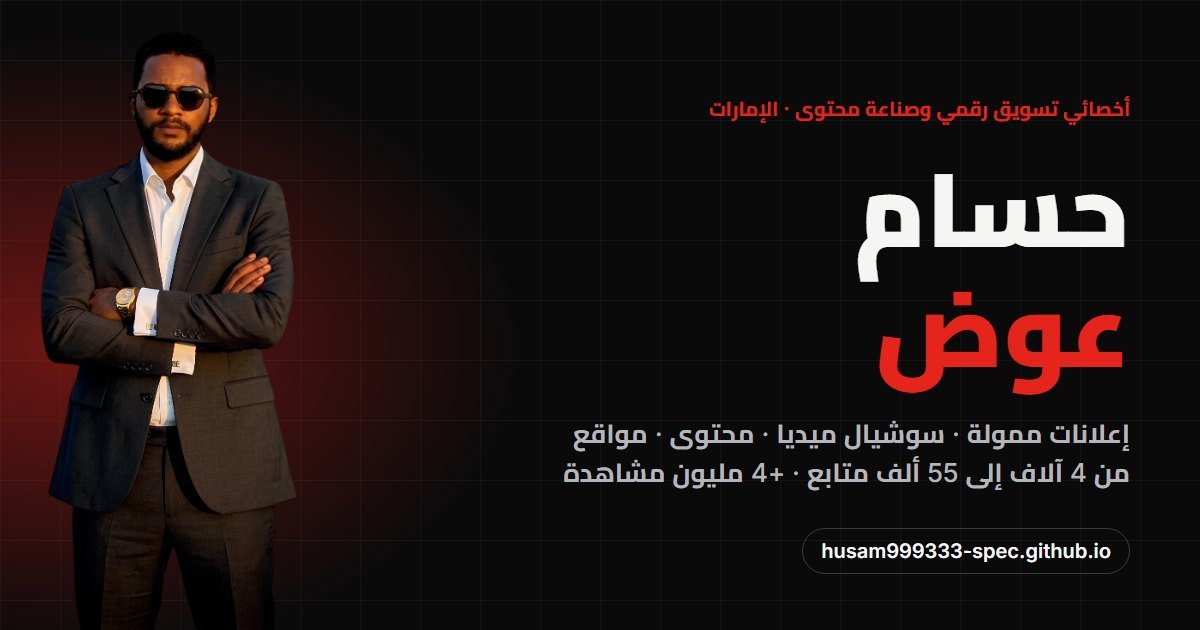
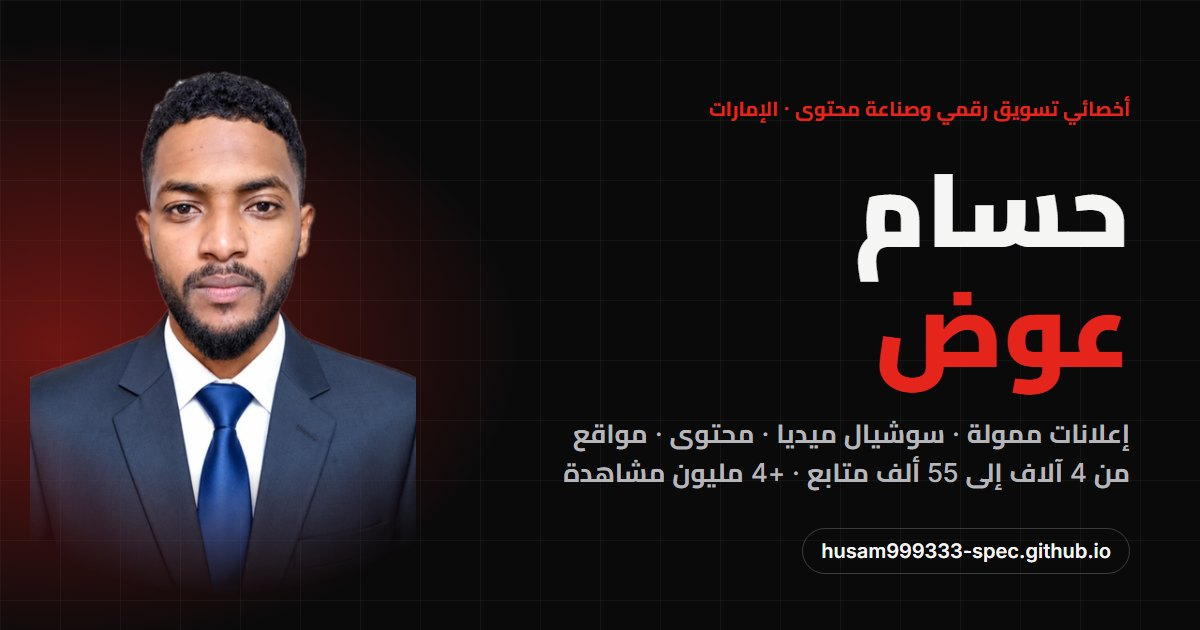
New front-facing hero photo, freelance dates 2020-2026, refreshed share images

Changed region(s): [[0.0, 0.0603, 0.37, 0.9651]]

diff --git a/ar/index.html b/ar/index.html
@@ -32,9 +32,9 @@
 <link rel="preconnect" href="https://fonts.googleapis.com">
 <link rel="preconnect" href="https://fonts.gstatic.com" crossorigin>
 <link rel="stylesheet" href="https://fonts.googleapis.com/css2?family=Cairo:wght@400;500;600;700;800;900&family=Inter:wght@400;500;600&display=swap">
-<link rel="preload" as="image" href="/assets/img/husam-hero.webp" fetchpriority="high">
-<link rel="stylesheet" href="/assets/css/style.css?v=7a1acf8e">
-<script type="application/ld+json">[{"@context":"https://schema.org","@type":"Person","@id":"https://husam999333-spec.github.io/#person","name":"Husam Awad","alternateName":["Husam Abd Alfattah","Husam Abdelfatah Awad Alhassan","حسام عوض","حسام عبدالفتاح عوض"],"jobTitle":"أخصائي تسويق رقمي وصناعة محتوى","description":"حسام عوض، أخصائي تسويق رقمي وصناعة محتوى في الإمارات بخبرة تزيد عن 6 سنوات في الإعلانات الممولة وإدارة السوشيال ميديا والتصميم ومواقع ووردبريس. نمّى جمهور فيستيفال لاند عجمان من 4 آلاف إلى 55 ألف متابع.","url":"https://husam999333-spec.github.io/ar/","image":"https://husam999333-spec.github.io/assets/img/husam-profile.webp","email":"mailto:husam999333@gmail.com","telephone":"+966530189972","address":{"@type":"PostalAddress","addressLocality":"Ajman","addressCountry":"AE"},"worksFor":{"@type":"Organization","name":"Festival Land Ajman","url":"https://festivalland.ae/"},"alumniOf":{"@type":"CollegeOrUniversity","name":"Sudan Academy for Banking & Financial Sciences"},"award":"Employee of the Year 2025 — Festival Land Ajman","knowsAbout":["التسويق الرقمي","الإعلانات الممولة","Meta Ads","Google Ads","إدارة السوشيال ميديا","صناعة المحتوى","التصميم الجرافيكي","المونتاج","WordPress","SEO"],"knowsLanguage":["ar","en"],"sameAs":["https://www.linkedin.com/in/husam-abd-alfattah-a73365259/"]},{"@context":"https://schema.org","@type":"ProfilePage","url":"https://husam999333-spec.github.io/ar/","name":"حسام عوض | أخصائي تسويق رقمي وصناعة محتوى في الإمارات","inLanguage":"ar","dateModified":"2026-11-11","mainEntity":{"@id":"https://husam999333-spec.github.io/#person"}}]</script>
+<link rel="preload" as="image" href="/assets/img/husam-front.webp" fetchpriority="high">
+<link rel="stylesheet" href="/assets/css/style.css?v=7435adbf">
+<script type="application/ld+json">[{"@context":"https://schema.org","@type":"Person","@id":"https://husam999333-spec.github.io/#person","name":"Husam Awad","alternateName":["Husam Abd Alfattah","Husam Abdelfatah Awad Alhassan","حسام عوض","حسام عبدالفتاح عوض"],"jobTitle":"أخصائي تسويق رقمي وصناعة محتوى","description":"حسام عوض، أخصائي تسويق رقمي وصناعة محتوى في الإمارات بخبرة تزيد عن 6 سنوات في الإعلانات الممولة وإدارة السوشيال ميديا والتصميم ومواقع ووردبريس. نمّى جمهور فيستيفال لاند عجمان من 4 آلاف إلى 55 ألف متابع.","url":"https://husam999333-spec.github.io/ar/","image":"https://husam999333-spec.github.io/assets/img/husam-front.webp","email":"mailto:husam999333@gmail.com","telephone":"+966530189972","address":{"@type":"PostalAddress","addressLocality":"Ajman","addressCountry":"AE"},"worksFor":{"@type":"Organization","name":"Festival Land Ajman","url":"https://festivalland.ae/"},"alumniOf":{"@type":"CollegeOrUniversity","name":"Sudan Academy for Banking & Financial Sciences"},"award":"Employee of the Year 2025 — Festival Land Ajman","knowsAbout":["التسويق الرقمي","الإعلانات الممولة","Meta Ads","Google Ads","إدارة السوشيال ميديا","صناعة المحتوى","التصميم الجرافيكي","المونتاج","WordPress","SEO"],"knowsLanguage":["ar","en"],"sameAs":["https://www.linkedin.com/in/husam-abd-alfattah-a73365259/"]},{"@context":"https://schema.org","@type":"ProfilePage","url":"https://husam999333-spec.github.io/ar/","name":"حسام عوض | أخصائي تسويق رقمي وصناعة محتوى في الإمارات","inLanguage":"ar","dateModified":"2026-11-11","mainEntity":{"@id":"https://husam999333-spec.github.io/#person"}}]</script>
 </head>
 <body>
 <a class="skip" href="#main">تخطَّ إلى المحتوى</a>
@@ -68,7 +68,7 @@
     </div>
     <div class="hero-pic">
       <div class="halo" aria-hidden="true"></div>
-      <img src="/assets/img/husam-hero.webp" alt="حسام عوض، أخصائي تسويق رقمي، ببدلة داكنة وذراعاه متشابكتان" width="599" height="1400" fetchpriority="high">
+      <img src="/assets/img/husam-front.webp" alt="حسام عوض، أخصائي تسويق رقمي، ببدلة كحلية وربطة عنق زرقاء" width="824" height="1194" fetchpriority="high">
       <div class="award-chip"><svg class="i" viewBox="0 0 24 24" fill="none" stroke="currentColor" stroke-width="1.7" stroke-linecap="round" stroke-linejoin="round" aria-hidden="true"><circle cx="12" cy="9" r="6"/><path d="m8.5 14-1.5 7 5-3 5 3-1.5-7"/></svg><span><b>موظف العام</b><small>Festival Land Ajman · 2025</small></span></div>
     </div>
   </div>
@@ -224,10 +224,10 @@
           <ul><li>المسؤول عن جميع الإعلانات الممولة: تخطيط وإطلاق وتحسين أكثر من 100 حملة على منصتَي <bdi>Meta Ads</bdi> و<bdi>Google Ads</bdi> بميزانيات موسمية تجاوزت 200 ألف درهم.</li><li>إدارة الموقع الرسمي <bdi>festivalland.ae</bdi>: المحتوى والتحديثات والأداء وتحسين الظهور في محركات البحث.</li><li>تصميم المواد التسويقية وإنتاج الفيديوهات الترويجية للحملات ومنصات التواصل.</li><li>إدارة التعاون مع جميع المؤثرين والبلوجرز الظاهرين في صفحة إنستغرام الخاصة بالعلامة.</li><li>وضع استراتيجيات التسويق الرقمي ومتابعة الأداء عبر المنصات لزيادة الوعي والتفاعل.</li></ul>
         </div>
       </article><article class="job reveal">
-        <div class="job-when">عمل حر</div>
+        <div class="job-when">2020 — 2026</div>
         <div class="job-main">
           <h3>أخصائي تسويق رقمي ومحتوى إبداعي</h3>
-          <p class="job-org">عملاء مستقلون <span>· الإمارات</span></p>
+          <p class="job-org">عمل حر · عملاء مستقلون <span>· الإمارات</span></p>
           <div class="job-tags">
           
           
@@ -263,7 +263,7 @@
       <p class="lead reveal">شكرًا لاطلاعك على أعمالي. أنا منفتح دائمًا على الفرص الجديدة والتعاون والتحديات الإبداعية.</p>
       <ul class="clist"><li class="reveal"><a href="mailto:husam999333@gmail.com"><span class="c-ic"><svg class="i" viewBox="0 0 24 24" fill="none" stroke="currentColor" stroke-width="1.7" stroke-linecap="round" stroke-linejoin="round" aria-hidden="true"><rect x="3" y="5" width="18" height="14" rx="2"/><path d="m3 7 9 6 9-6"/></svg></span><span><small>البريد الإلكتروني</small><b dir="ltr">husam999333@gmail.com</b></span><svg class="i c-go" viewBox="0 0 24 24" fill="none" stroke="currentColor" stroke-width="1.7" stroke-linecap="round" stroke-linejoin="round" aria-hidden="true"><path d="M7 17 17 7M8 7h9v9"/></svg></a></li><li class="reveal"><a href="tel:+966530189972"><span class="c-ic"><svg class="i" viewBox="0 0 24 24" fill="none" stroke="currentColor" stroke-width="1.7" stroke-linecap="round" stroke-linejoin="round" aria-hidden="true"><path d="M5 4h4l2 5-2.5 1.5a11 11 0 0 0 5 5L15 13l5 2v4a2 2 0 0 1-2 2A16 16 0 0 1 3 6a2 2 0 0 1 2-2Z"/></svg></span><span><small>الهاتف (للمكالمات)</small><b dir="ltr">+966 53 018 9972</b></span><svg class="i c-go" viewBox="0 0 24 24" fill="none" stroke="currentColor" stroke-width="1.7" stroke-linecap="round" stroke-linejoin="round" aria-hidden="true"><path d="M7 17 17 7M8 7h9v9"/></svg></a></li><li class="reveal"><a href="https://wa.me/971558726441" target="_blank" rel="noopener"><span class="c-ic"><svg class="i" viewBox="0 0 24 24" fill="none" stroke="currentColor" stroke-width="1.7" stroke-linecap="round" stroke-linejoin="round" aria-hidden="true"><path d="M3.5 20.5 5 16a8.5 8.5 0 1 1 3 3l-4.5 1.5Z"/><path d="M9 9.5c0 3 2.5 5.5 5.5 5.5l1-1.5-2-1-1 1a4 4 0 0 1-2-2l1-1-1-2L9 9.5Z"/></svg></span><span><small>واتساب</small><b dir="ltr">+971 55 872 6441</b></span><svg class="i c-go" viewBox="0 0 24 24" fill="none" stroke="currentColor" stroke-width="1.7" stroke-linecap="round" stroke-linejoin="round" aria-hidden="true"><path d="M7 17 17 7M8 7h9v9"/></svg></a></li><li class="reveal"><a href="https://www.linkedin.com/in/husam-abd-alfattah-a73365259/" target="_blank" rel="noopener"><span class="c-ic"><svg class="i" viewBox="0 0 24 24" fill="none" stroke="currentColor" stroke-width="1.7" stroke-linecap="round" stroke-linejoin="round" aria-hidden="true"><rect x="3" y="3" width="18" height="18" rx="3"/><path d="M8 10v7M8 7v.01M12 17v-4a2 2 0 0 1 4 0v4M12 10v7"/></svg></span><span><small>لينكدإن</small><b dir="ltr">Husam Abd Alfattah</b></span><svg class="i c-go" viewBox="0 0 24 24" fill="none" stroke="currentColor" stroke-width="1.7" stroke-linecap="round" stroke-linejoin="round" aria-hidden="true"><path d="M7 17 17 7M8 7h9v9"/></svg></a></li></ul>
     </div>
-    <div class="contact-pic reveal"><img src="/assets/img/husam-profile.webp" alt="صورة شخصية لحسام عوض" width="795" height="900" loading="lazy"></div>
+    <div class="contact-pic reveal"><img src="/assets/img/husam-hero.webp" alt="حسام عوض ببدلة داكنة" width="599" height="1400" loading="lazy"></div>
   </div>
 </section>
 </main>

diff --git a/index.html b/index.html
@@ -32,9 +32,9 @@
 <link rel="preconnect" href="https://fonts.googleapis.com">
 <link rel="preconnect" href="https://fonts.gstatic.com" crossorigin>
 <link rel="stylesheet" href="https://fonts.googleapis.com/css2?family=Anton&family=Inter:wght@400;500;600;700&display=swap">
-<link rel="preload" as="image" href="/assets/img/husam-hero.webp" fetchpriority="high">
-<link rel="stylesheet" href="/assets/css/style.css?v=7a1acf8e">
-<script type="application/ld+json">[{"@context":"https://schema.org","@type":"Person","@id":"https://husam999333-spec.github.io/#person","name":"Husam Awad","alternateName":["Husam Abd Alfattah","Husam Abdelfatah Awad Alhassan","حسام عوض","حسام عبدالفتاح عوض"],"jobTitle":"Digital Marketing & Creative Specialist","description":"Husam Awad is a Digital Marketing & Creative Specialist in the UAE with 6+ years in paid advertising, social media, content creation and WordPress websites. Grew Festival Land Ajman from 4K to 55K followers.","url":"https://husam999333-spec.github.io/","image":"https://husam999333-spec.github.io/assets/img/husam-profile.webp","email":"mailto:husam999333@gmail.com","telephone":"+966530189972","address":{"@type":"PostalAddress","addressLocality":"Ajman","addressCountry":"AE"},"worksFor":{"@type":"Organization","name":"Festival Land Ajman","url":"https://festivalland.ae/"},"alumniOf":{"@type":"CollegeOrUniversity","name":"Sudan Academy for Banking & Financial Sciences"},"award":"Employee of the Year 2025 — Festival Land Ajman","knowsAbout":["Digital Marketing","Paid Advertising","Meta Ads","Google Ads","Social Media Management","Content Creation","Graphic Design","Video Production","WordPress","SEO","Influencer Marketing"],"knowsLanguage":["ar","en"],"sameAs":["https://www.linkedin.com/in/husam-abd-alfattah-a73365259/"]},{"@context":"https://schema.org","@type":"ProfilePage","url":"https://husam999333-spec.github.io/","name":"Husam Awad | Digital Marketing & Creative Specialist in the UAE","inLanguage":"en","dateModified":"2026-11-11","mainEntity":{"@id":"https://husam999333-spec.github.io/#person"}}]</script>
+<link rel="preload" as="image" href="/assets/img/husam-front.webp" fetchpriority="high">
+<link rel="stylesheet" href="/assets/css/style.css?v=7435adbf">
+<script type="application/ld+json">[{"@context":"https://schema.org","@type":"Person","@id":"https://husam999333-spec.github.io/#person","name":"Husam Awad","alternateName":["Husam Abd Alfattah","Husam Abdelfatah Awad Alhassan","حسام عوض","حسام عبدالفتاح عوض"],"jobTitle":"Digital Marketing & Creative Specialist","description":"Husam Awad is a Digital Marketing & Creative Specialist in the UAE with 6+ years in paid advertising, social media, content creation and WordPress websites. Grew Festival Land Ajman from 4K to 55K followers.","url":"https://husam999333-spec.github.io/","image":"https://husam999333-spec.github.io/assets/img/husam-front.webp","email":"mailto:husam999333@gmail.com","telephone":"+966530189972","address":{"@type":"PostalAddress","addressLocality":"Ajman","addressCountry":"AE"},"worksFor":{"@type":"Organization","name":"Festival Land Ajman","url":"https://festivalland.ae/"},"alumniOf":{"@type":"CollegeOrUniversity","name":"Sudan Academy for Banking & Financial Sciences"},"award":"Employee of the Year 2025 — Festival Land Ajman","knowsAbout":["Digital Marketing","Paid Advertising","Meta Ads","Google Ads","Social Media Management","Content Creation","Graphic Design","Video Production","WordPress","SEO","Influencer Marketing"],"knowsLanguage":["ar","en"],"sameAs":["https://www.linkedin.com/in/husam-abd-alfattah-a73365259/"]},{"@context":"https://schema.org","@type":"ProfilePage","url":"https://husam999333-spec.github.io/","name":"Husam Awad | Digital Marketing & Creative Specialist in the UAE","inLanguage":"en","dateModified":"2026-11-11","mainEntity":{"@id":"https://husam999333-spec.github.io/#person"}}]</script>
 </head>
 <body>
 <a class="skip" href="#main">Skip to content</a>
@@ -68,7 +68,7 @@
     </div>
     <div class="hero-pic">
       <div class="halo" aria-hidden="true"></div>
-      <img src="/assets/img/husam-hero.webp" alt="Husam Awad, Digital Marketing Specialist, in a dark suit with arms crossed" width="599" height="1400" fetchpriority="high">
+      <img src="/assets/img/husam-front.webp" alt="Husam Awad, Digital Marketing Specialist, in a navy suit and blue tie" width="824" height="1194" fetchpriority="high">
       <div class="award-chip"><svg class="i" viewBox="0 0 24 24" fill="none" stroke="currentColor" stroke-width="1.7" stroke-linecap="round" stroke-linejoin="round" aria-hidden="true"><circle cx="12" cy="9" r="6"/><path d="m8.5 14-1.5 7 5-3 5 3-1.5-7"/></svg><span><b>Employee of the Year</b><small>Festival Land Ajman · 2025</small></span></div>
     </div>
   </div>
@@ -224,10 +224,10 @@
           <ul><li>Led all paid advertising — planned, launched and optimized 100+ campaigns on Meta Ads and Google Ads with AED 200K+ in seasonal budgets.</li><li>Managed the official website (festivalland.ae): content, updates, performance and SEO.</li><li>Designed marketing visuals and produced promotional videos for campaigns and social platforms.</li><li>Managed collaborations with all the influencers and bloggers featured on the brand's Instagram page.</li><li>Developed digital marketing strategies and tracked performance across platforms to grow awareness and engagement.</li></ul>
         </div>
       </article><article class="job reveal">
-        <div class="job-when">Freelance</div>
+        <div class="job-when">2020 — 2026</div>
         <div class="job-main">
           <h3>Digital Marketing & Creative Specialist</h3>
-          <p class="job-org">Independent clients <span>· UAE</span></p>
+          <p class="job-org">Freelance · Independent clients <span>· UAE</span></p>
           <div class="job-tags">
           
           
@@ -263,7 +263,7 @@
       <p class="lead reveal">Thank you for exploring my work. I'm always open to new opportunities, collaborations and creative challenges.</p>
       <ul class="clist"><li class="reveal"><a href="mailto:husam999333@gmail.com"><span class="c-ic"><svg class="i" viewBox="0 0 24 24" fill="none" stroke="currentColor" stroke-width="1.7" stroke-linecap="round" stroke-linejoin="round" aria-hidden="true"><rect x="3" y="5" width="18" height="14" rx="2"/><path d="m3 7 9 6 9-6"/></svg></span><span><small>Email</small><b dir="ltr">husam999333@gmail.com</b></span><svg class="i c-go" viewBox="0 0 24 24" fill="none" stroke="currentColor" stroke-width="1.7" stroke-linecap="round" stroke-linejoin="round" aria-hidden="true"><path d="M7 17 17 7M8 7h9v9"/></svg></a></li><li class="reveal"><a href="tel:+966530189972"><span class="c-ic"><svg class="i" viewBox="0 0 24 24" fill="none" stroke="currentColor" stroke-width="1.7" stroke-linecap="round" stroke-linejoin="round" aria-hidden="true"><path d="M5 4h4l2 5-2.5 1.5a11 11 0 0 0 5 5L15 13l5 2v4a2 2 0 0 1-2 2A16 16 0 0 1 3 6a2 2 0 0 1 2-2Z"/></svg></span><span><small>Phone (calls)</small><b dir="ltr">+966 53 018 9972</b></span><svg class="i c-go" viewBox="0 0 24 24" fill="none" stroke="currentColor" stroke-width="1.7" stroke-linecap="round" stroke-linejoin="round" aria-hidden="true"><path d="M7 17 17 7M8 7h9v9"/></svg></a></li><li class="reveal"><a href="https://wa.me/971558726441" target="_blank" rel="noopener"><span class="c-ic"><svg class="i" viewBox="0 0 24 24" fill="none" stroke="currentColor" stroke-width="1.7" stroke-linecap="round" stroke-linejoin="round" aria-hidden="true"><path d="M3.5 20.5 5 16a8.5 8.5 0 1 1 3 3l-4.5 1.5Z"/><path d="M9 9.5c0 3 2.5 5.5 5.5 5.5l1-1.5-2-1-1 1a4 4 0 0 1-2-2l1-1-1-2L9 9.5Z"/></svg></span><span><small>WhatsApp</small><b dir="ltr">+971 55 872 6441</b></span><svg class="i c-go" viewBox="0 0 24 24" fill="none" stroke="currentColor" stroke-width="1.7" stroke-linecap="round" stroke-linejoin="round" aria-hidden="true"><path d="M7 17 17 7M8 7h9v9"/></svg></a></li><li class="reveal"><a href="https://www.linkedin.com/in/husam-abd-alfattah-a73365259/" target="_blank" rel="noopener"><span class="c-ic"><svg class="i" viewBox="0 0 24 24" fill="none" stroke="currentColor" stroke-width="1.7" stroke-linecap="round" stroke-linejoin="round" aria-hidden="true"><rect x="3" y="3" width="18" height="18" rx="3"/><path d="M8 10v7M8 7v.01M12 17v-4a2 2 0 0 1 4 0v4M12 10v7"/></svg></span><span><small>LinkedIn</small><b dir="ltr">Husam Abd Alfattah</b></span><svg class="i c-go" viewBox="0 0 24 24" fill="none" stroke="currentColor" stroke-width="1.7" stroke-linecap="round" stroke-linejoin="round" aria-hidden="true"><path d="M7 17 17 7M8 7h9v9"/></svg></a></li></ul>
     </div>
-    <div class="contact-pic reveal"><img src="/assets/img/husam-profile.webp" alt="Portrait of Husam Awad" width="795" height="900" loading="lazy"></div>
+    <div class="contact-pic reveal"><img src="/assets/img/husam-hero.webp" alt="Husam Awad in a dark suit with arms crossed" width="599" height="1400" loading="lazy"></div>
   </div>
 </section>
 </main>

diff --git a/assets/css/style.css b/assets/css/style.css
@@ -446,3 +446,13 @@ html[lang="ar"] .motto { letter-spacing: 0; font-size: 14px; }
 .ig-chip span[dir] { display: inline-flex; align-items: center; color: var(--muted); }
 .ig-k { color: var(--dim); }
 @media (max-width: 640px) { .ig-card { flex-basis: 86%; } .ig-head .btn { width: 100%; justify-content: center; } }
+
+/* Front portrait in hero (head-and-shoulders) */
+.hero-pic img { max-height: 68vh; }
+.halo { inset: 8% 4% 10%; }
+.award-chip { bottom: 14%; }
+.contact-pic img { max-height: 620px; }
+.hero-pic img {
+  mask-image: radial-gradient(140% 100% at 50% 20%, #000 52%, transparent 74%);
+  -webkit-mask-image: radial-gradient(140% 100% at 50% 20%, #000 52%, transparent 74%);
+}
